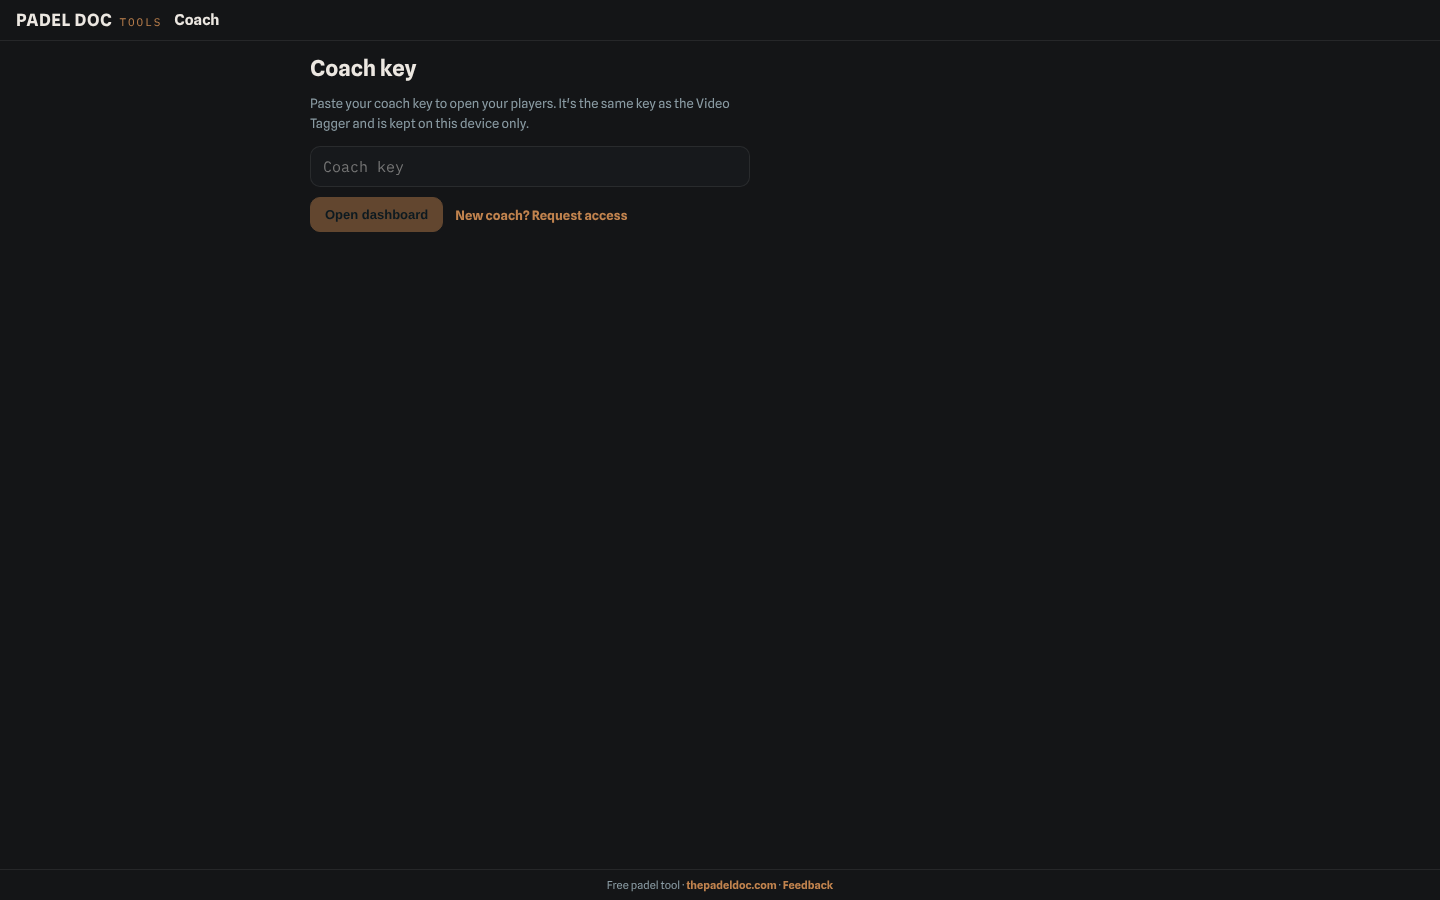
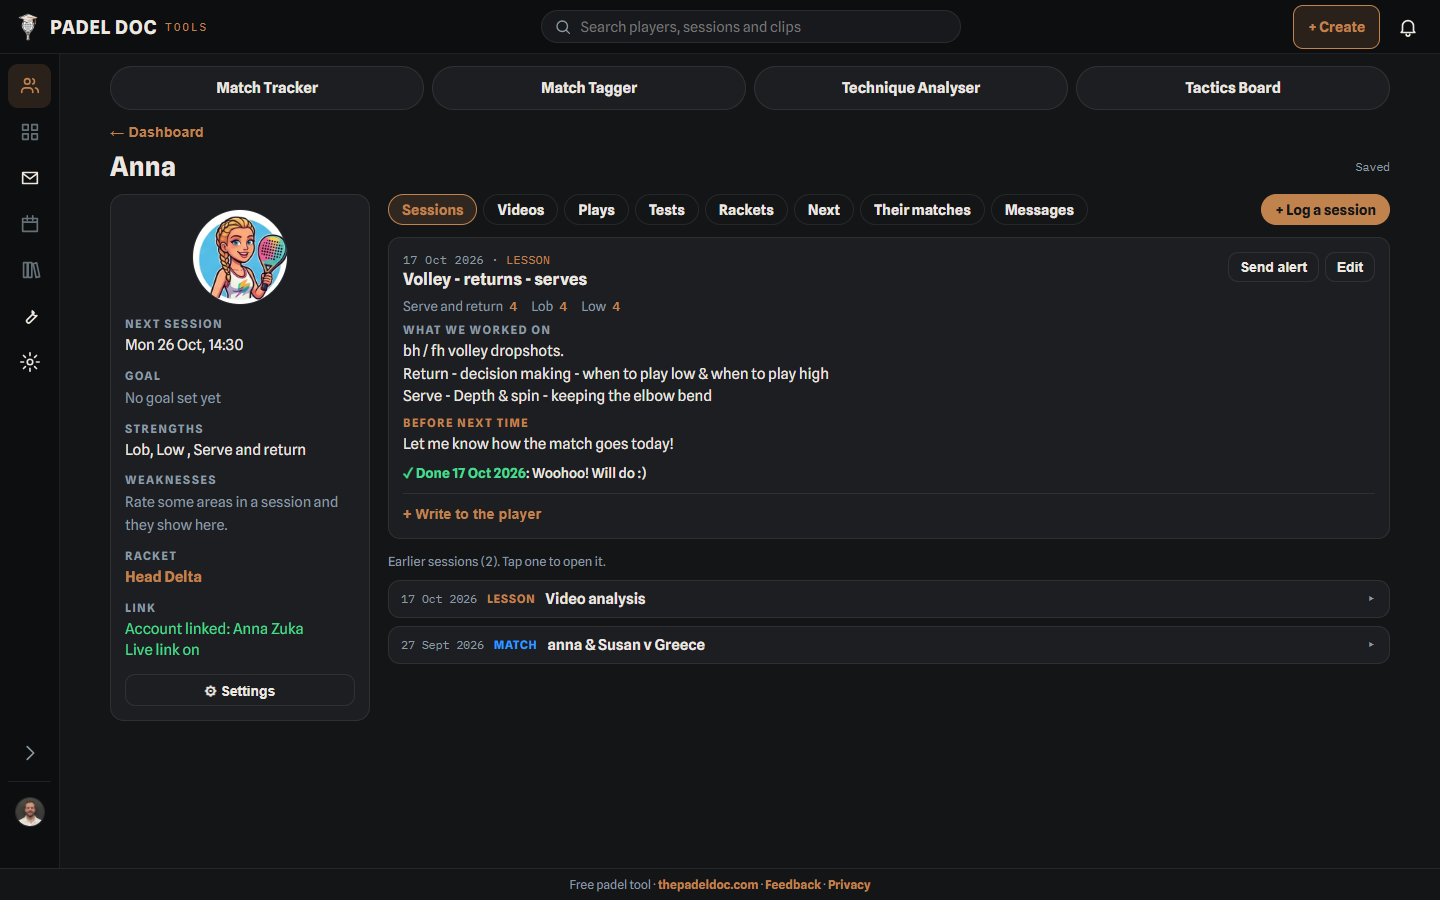
Home page: one question, a section per role, /tools index

diff --git a/app/page.tsx b/app/page.tsx
@@ -2,80 +2,82 @@ import { Community, Footer, SiteHeader } from './site-parts'
 import UsageCounter from './usage-counter'
 import UsedByStrip from './used-by-strip'
 import ReviewsStrip from './reviews-strip'
-import { tools, byWho, type Tool } from './tools-data'
 
-// The homepage: the visitor picks player, coach or club organiser, and each panel lists the tools
-// for that job. Every tool links to its own page under /tools/<slug>.
-const sides = [
-  { key: 'play' as const, title: 'I’m a player', line: 'Watch your matches back, see where points are won and lost, and set up your racket.', ctas: [{ label: 'Sign up free', href: '/me/join' }, { label: 'Tag a match', href: '/tools/tagger' }], note: 'Keep your matches, see your stats and link up with your coach.' },
-  { key: 'coach' as const, title: 'I’m a coach', line: 'Give each player a private page with notes, homework, stats and clips.', ctas: [{ label: 'Set up free', href: '/coach/join' }] },
-  { key: 'club' as const, title: 'I’m a club organiser', line: 'Run box leagues, Americanos and Mexicanos, and score matches people can follow live.', ctas: [{ label: 'Run a box league', href: '/tools/box-league' }, { label: 'Set up an Americano', href: '/americano' }] },
+// The homepage (Kevin 26 Oct 2026): one question, a pill per role, then a section per role with its main tool, what it
+// does in a few ticks and one button. Each role has its colour: player copper, coach blue, club green. Class names are
+// written out in full so Tailwind finds them. Every tool is listed on /tools (the footer's All tools).
+const roles = [
+  {
+    id: 'player', pill: 'Player', heading: 'For players',
+    line: 'Keep your matches, see your stats and link up with your coach.',
+    shot: '/shots/tagger.png', shotAlt: 'The Match Tagger',
+    ticks: ['Watch your matches back', 'See where points are won and lost', 'Messages, clips and homework from your coach', 'Your stats over time', 'Set up your racket'],
+    cta: { label: 'Set up a player account', href: '/me/join' }, more: { label: 'Tag a match', href: '/tools/tagger' },
+    text: 'text-accent', fill: 'bg-accent', pillCls: 'border-accent text-accent hover:bg-accent',
+  },
+  {
+    id: 'coach', pill: 'Coach', heading: 'For coaches',
+    line: 'Give each player a private page with notes, homework, stats and clips.',
+    shot: '/shots/player.png', shotAlt: 'The coach page',
+    ticks: ['A private page per player', 'Video analysis and tagging', 'Messages, voice notes and clips', 'Lesson booking and RSVP', 'Daily lesson email'],
+    cta: { label: 'Set up a coach account', href: '/coach/join' }, more: null,
+    text: 'text-accent-2', fill: 'bg-accent-2', pillCls: 'border-accent-2 text-accent-2 hover:bg-accent-2',
+  },
+  {
+    id: 'club', pill: 'Club', heading: 'For clubs',
+    line: 'Run box leagues, Americanos and Mexicanos, and score matches people can follow live.',
+    shot: '/shots/box-league.png', shotAlt: 'Box League',
+    ticks: ['Box leagues drawn and scored for you', 'Americanos and Mexicanos', 'Live scoreboard links', 'Member import from a spreadsheet', 'Live results and tables online'],
+    cta: { label: 'Set up a club account', href: '/club/join' }, more: { label: 'Set up an Americano', href: '/americano' },
+    text: 'text-accent-3', fill: 'bg-accent-3', pillCls: 'border-accent-3 text-accent-3 hover:bg-accent-3',
+  },
 ]
-
-function Mini({ t }: { t: Tool }) {
-  return (
-    <a href={`/tools/${t.slug}`} className="group flex items-center gap-4 py-3 border-t border-edge">
-      <img src={t.shot} alt="" className="h-12 w-20 shrink-0 rounded object-cover object-top border border-edge" />
-      <span>
-        <span className="block font-medium group-hover:text-accent">{t.name}</span>
-        <span className="block text-sm text-muted leading-snug">{t.line}</span>
-      </span>
-    </a>
-  )
-}
 
 export default function Home() {
   return (
     <>
       <SiteHeader />
       <div className="min-h-screen mx-auto max-w-6xl px-6">
+        <UsageCounter className="pt-4" />
 
-        <section className="pt-12 pb-14 max-w-3xl">
-          <h1 className="text-5xl sm:text-6xl font-bold tracking-tight leading-[1.02]">Free padel tools to help the game grow.</h1>
-          <p className="mt-6 text-lg text-text/80 leading-relaxed max-w-prose">
-            Start with what you do. Everything here is free to use.
-          </p>
-          <div className="mt-6"><UsageCounter /></div>
-        </section>
-
-        <section className="grid gap-6 lg:grid-cols-3">
-          {sides.map((s) => (
-            <div key={s.key} className="rounded-xl bg-panel border border-edge p-6 flex flex-col">
-              <h2 className="text-3xl font-bold tracking-tight">{s.title}</h2>
-              <p className="mt-3 text-text/80 leading-relaxed">{s.line}</p>
-              <div className="mt-6 flex-1">
-                {byWho(s.key).map((t) => (
-                  <Mini key={t.slug} t={t} />
-                ))}
-              </div>
-              <div className="mt-6 flex flex-wrap gap-3">
-                {s.ctas.map((c, i) => (
-                  <a key={c.href} href={c.href} className={i === 0
-                    ? 'font-medium bg-accent text-on-accent rounded px-4 py-2 hover:brightness-110'
-                    : 'font-medium border border-accent/60 text-accent rounded px-4 py-2 hover:bg-accent/10'}>{c.label}</a>
-                ))}
-              </div>
-              {s.note && <p className="mt-4 text-sm text-accent-2">{s.note}</p>}
-            </div>
-          ))}
-        </section>
-
-        <UsedByStrip className="mt-16" />
-        <ReviewsStrip className="mt-16" />
-
-        <section className="mt-24">
-          <h2 className="text-3xl font-bold tracking-tight">All the tools</h2>
-          <div className="mt-8 grid gap-x-8 gap-y-12 sm:grid-cols-2 lg:grid-cols-4">
-            {tools.map((t) => (
-              <a key={t.slug} href={`/tools/${t.slug}`} className="group block">
-                <img src={t.shot} alt="" className="aspect-[4/3] w-full rounded-lg object-cover object-top border border-edge" />
-                <h3 className="mt-4 font-bold group-hover:text-accent">{t.name}</h3>
-                <p className="mt-1 text-sm text-muted leading-snug">{t.line}</p>
-              </a>
+        <section className="pt-12 pb-4">
+          <h1 className="text-5xl sm:text-6xl font-bold tracking-tight leading-[1.02] max-w-4xl">
+            Are you a <span className="text-accent">player</span>, a <span className="text-accent-2">coach</span> or
+            a <span className="text-accent-3">club</span>?
+          </h1>
+          <nav aria-label="Pick your role" className="mt-10 grid grid-cols-1 sm:grid-cols-3 gap-3">
+            {roles.map((r) => (
+              <a key={r.id} href={`#${r.id}`}
+                className={`rounded-full border-2 bg-panel px-6 py-3 text-center text-lg font-semibold hover:text-on-accent ${r.pillCls}`}>{r.pill}</a>
             ))}
-          </div>
+          </nav>
         </section>
 
+        {roles.map((r) => (
+          <section key={r.id} id={r.id} aria-labelledby={`${r.id}-heading`} className="mt-20 pt-16 border-t border-edge scroll-mt-6">
+            <h2 id={`${r.id}-heading`} className={`text-4xl sm:text-5xl font-bold tracking-tight ${r.text}`}>{r.heading}</h2>
+            <p className="mt-4 text-xl text-text/85 leading-relaxed max-w-prose">{r.line}</p>
+            <div className="mt-10 rounded-xl border border-edge bg-panel-2 overflow-hidden shadow-[0_40px_80px_-40px_color-mix(in_srgb,var(--color-shade)_45%,transparent)]">
+              {/* The shots are all 1440 x 900: the size reserves the space, so a pill's jump lands before they load. */}
+              <img src={r.shot} alt={r.shotAlt} width={1440} height={900} className="w-full h-auto" />
+            </div>
+            <ul className="mt-10 grid gap-x-10 gap-y-3 sm:grid-cols-2">
+              {r.ticks.map((t) => (
+                <li key={t} className="flex gap-3 text-lg">
+                  <span className={`font-mono font-bold ${r.text}`} aria-hidden="true">&#10003;</span>
+                  <span>{t}</span>
+                </li>
+              ))}
+            </ul>
+            <div className="mt-10 flex flex-wrap items-center gap-x-6 gap-y-3">
+              <a href={r.cta.href} className={`inline-block rounded-lg px-7 py-4 text-lg font-semibold text-on-accent hover:brightness-110 ${r.fill}`}>{r.cta.label}</a>
+              {r.more && <a href={r.more.href} className="text-text/85 underline underline-offset-4 hover:text-text">{r.more.label}</a>}
+            </div>
+          </section>
+        ))}
+
+        <UsedByStrip className="mt-24" />
+        <ReviewsStrip className="mt-16" />
         <Community />
         <Footer />
       </div>

diff --git a/app/usage-counter.tsx b/app/usage-counter.tsx
@@ -1,7 +1,7 @@
 'use client'
 
 import { useEffect, useState } from 'react'
-import { usageSentence, accountsSentence } from './usage-sentence'
+import { usageLine } from './usage-sentence'
 
 // The padel-share Worker's public counters. A LITERAL, not an env var: this endpoint is
 // unauthenticated and already public — the same base URL is baked into every tool bundle under
@@ -14,9 +14,8 @@ const STATS_URL = 'https://padel-share.padel-coach.workers.dev/v1/stats'
 // so the abort and a network error deliberately land in the same catch.
 const TIMEOUT_MS = 4000
 
-export default function UsageCounter() {
-  const [sentence, setSentence] = useState<string | null>(null)
-  const [people, setPeople] = useState<string | null>(null)
+export default function UsageCounter({ className = '' }: { className?: string }) {
+  const [line, setLine] = useState<string | null>(null)
 
   useEffect(() => {
     const controller = new AbortController()
@@ -28,7 +27,7 @@ export default function UsageCounter() {
         const res = await fetch(STATS_URL, { signal: controller.signal })
         if (!res.ok) return                      // any non-200: nothing to say
         const data: unknown = await res.json()   // a malformed body throws, and is caught below
-        if (live) { setSentence(usageSentence(data)); setPeople(accountsSentence(data)) }
+        if (live) setLine(usageLine(data))
       } catch {
         // Fetch failed, timed out, was aborted, or the body was not JSON. Render nothing and say
         // nothing — a console error on a marketing page helps nobody. State stays null.
@@ -47,16 +46,8 @@ export default function UsageCounter() {
   // Nothing to show means no element at all, rather than an empty <p> whose margins would still
   // occupy space. That is the whole of §7's reservation rule: absent, the DOM is untouched and the
   // page is byte-identical to one without this component.
-  if (!sentence && !people) return null
+  if (!line) return null
 
-  // A normal in-flow line. No top margin is needed: the intro's mb-14 is an adjacent sibling
-  // margin and collapses to the larger of the two, so it already supplies the 3.5rem above. This
-  // element's own mb-14 preserves the same 3.5rem before the tools section, so the page grows by
-  // exactly one line height when the counter renders.
-  return (
-    <div className="text-sm font-mono text-muted mb-14">
-      {people && <p>{people}</p>}
-      {sentence && <p>{sentence}</p>}
-    </div>
-  )
+  // One line under the header band (Kevin 26 Oct 2026); the page sets the spacing through className.
+  return <p className={`text-sm font-mono text-muted ${className}`}>{line}</p>
 }

diff --git a/app/tools/page.tsx b/app/tools/page.tsx
@@ -1,0 +1,34 @@
+import type { Metadata } from 'next'
+import { Footer, SiteHeader } from '../site-parts'
+import { tools } from '../tools-data'
+
+export const metadata: Metadata = {
+  title: 'All tools',
+  description: 'Every free Padel Doc tool: match tagging and tracking, video analysis, tactics, Americanos, box leagues, a scoreboard and racket balance.',
+  alternates: { canonical: '/tools' },
+}
+
+// Every tool, each linking to its own page (the grid that was on the homepage until Kevin 26 Oct 2026). The footer's
+// All tools links here.
+export default function Tools() {
+  return (
+    <>
+      <SiteHeader />
+      <div className="min-h-screen mx-auto max-w-6xl px-6">
+        <section className="pt-12">
+          <h1 className="text-5xl sm:text-6xl font-bold tracking-tight leading-[1.02]">All tools</h1>
+          <div className="mt-10 grid gap-x-8 gap-y-12 sm:grid-cols-2 lg:grid-cols-4">
+            {tools.map((t) => (
+              <a key={t.slug} href={`/tools/${t.slug}`} className="group block">
+                <img src={t.shot} alt="" className="aspect-[4/3] w-full rounded-lg object-cover object-top border border-edge" />
+                <h2 className="mt-4 font-bold group-hover:text-accent">{t.name}</h2>
+                <p className="mt-1 text-sm text-muted leading-snug">{t.line}</p>
+              </a>
+            ))}
+          </div>
+        </section>
+        <Footer />
+      </div>
+    </>
+  )
+}

diff --git a/app/usage-sentence.test.ts b/app/usage-sentence.test.ts
@@ -5,7 +5,7 @@
 // why tsconfig sets allowImportingTsExtensions.
 import test from 'node:test'
 import assert from 'node:assert/strict'
-import { usageSentence } from './usage-sentence.ts'
+import { usageSentence, usageLine } from './usage-sentence.ts'
 
 test('both keys render the full sentence', () => {
   assert.equal(usageSentence({ matches: 54, americanos: 8 }), '54 matches and 8 americanos tracked')
@@ -46,4 +46,16 @@ test('zero renders nothing — it can only mean a missing or reset row', () => {
   assert.equal(usageSentence({ matches: 0 }), null)
   // And a zero on one key falls back to the other, per §7 rule 2.
   assert.equal(usageSentence({ matches: 54, americanos: 0 }), '54 matches tracked')
+})
+
+test('usageLine: people then tracking, one line, each half a sentence', () => {
+  assert.equal(usageLine({ coaches: 2, players: 8, clubs: 2, matches: 72, americanos: 10 }),
+    '2 coaches, 8 players and 2 clubs use thepadeldoc.com. 72 matches and 10 americanos tracked.')
+})
+
+test('usageLine: either half alone, or nothing', () => {
+  assert.equal(usageLine({ matches: 72, americanos: 10 }), '72 matches and 10 americanos tracked.')
+  assert.equal(usageLine({ coaches: 2, players: 8, clubs: 2 }), '2 coaches, 8 players and 2 clubs use thepadeldoc.com.')
+  assert.equal(usageLine({ coaches: 0, players: 8, clubs: 2, matches: 0 }), null)
+  assert.equal(usageLine(null), null)
 })

diff --git a/app/globals.css b/app/globals.css
@@ -17,6 +17,7 @@
   --color-edge:      rgba(20, 21, 23, 0.13); /* card borders and rules */
   --color-accent:    #8c5021; /* copper, darkened for text and links on white: PRIMARY, used sparingly */
   --color-accent-2:  #0865c2; /* technical blue: SECONDARY */
+  --color-accent-3:  #11683f; /* green, the tools' light "win": the home page's club colour */
   --color-text:      #1b1c1f;
   --color-muted:     #56656d;
   --color-on-accent: #ffffff; /* text on a filled accent (primary buttons) */
@@ -32,6 +33,11 @@ html, body {
   background: var(--color-bg);
   color: var(--color-text);
   color-scheme: light;
+}
+
+/* The home page's role pills scroll to their sections; no animation for anyone who asked for less motion. */
+@media (prefers-reduced-motion: no-preference) {
+  html { scroll-behavior: smooth; }
 }
 
 body {

diff --git a/app/tools/[slug]/page.tsx b/app/tools/[slug]/page.tsx
@@ -28,7 +28,7 @@ export default async function ToolPage({ params }: { params: Promise<{ slug: str
       <div className="min-h-screen mx-auto max-w-6xl px-6">
 
         <section className="pt-10 pb-12 max-w-3xl">
-          <a href="/" className="text-sm text-muted hover:text-text">All the tools</a>
+          <a href="/tools" className="text-sm text-muted hover:text-text">All the tools</a>
           <h1 className="mt-3 text-5xl sm:text-6xl font-bold tracking-tight leading-[1.02]">{t.name}</h1>
           <p className="mt-5 text-xl text-text/85 leading-relaxed max-w-prose">{t.line}</p>
           <div className="mt-8 flex flex-wrap items-center gap-x-5 gap-y-3">

diff --git a/app/usage-sentence.ts b/app/usage-sentence.ts
@@ -47,3 +47,11 @@ export function usageSentence(data: unknown): string | null {
   if (a) return `${a} tracked`
   return null
 }
+
+// The home page's one usage line (Kevin 26 Oct 2026): who uses the site, then what's been tracked, each a sentence:
+// "2 coaches, 8 players and 2 clubs use thepadeldoc.com. 72 matches and 10 americanos tracked." Either half alone when
+// only it has something to say; null when neither does.
+export function usageLine(data: unknown): string | null {
+  const parts = [accountsSentence(data), usageSentence(data)].filter((s): s is string => !!s)
+  return parts.length ? parts.map((s) => `${s}.`).join(' ') : null
+}

diff --git a/app/site-parts.tsx b/app/site-parts.tsx
@@ -34,6 +34,7 @@ export function Footer() {
   return (
     <footer className="mt-24 border-t border-edge pt-8 pb-12 flex flex-wrap gap-x-6 gap-y-2 text-sm text-muted">
       <span>Free padel tools by Dr Kevin O&rsquo;Brien, padel coach and sport scientist.</span>
+      <a className="hover:text-text" href="/tools">All tools</a>
       <a className="hover:text-text" href="/about">About</a>
       <a className="hover:text-text" href="/privacy">Privacy</a>
       <a className="hover:text-text" href="/cookies">Cookies</a>
